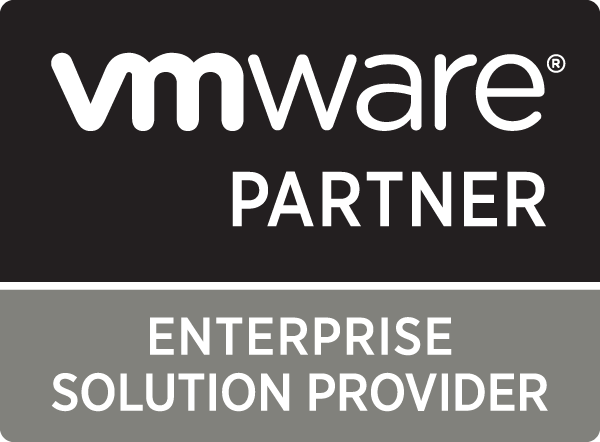
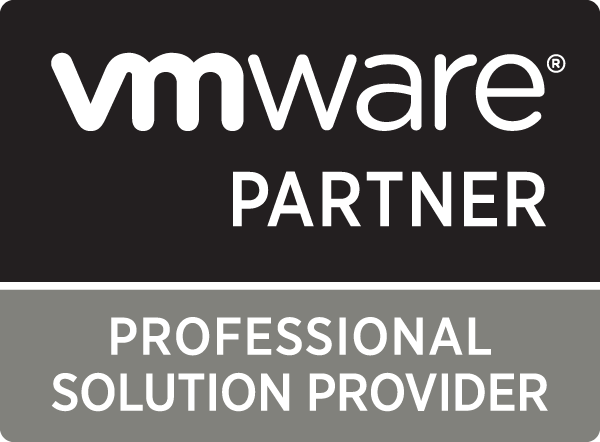
vmware mobile

Changed region(s): [[0.18, 0.7059, 0.81, 0.8235]]

diff --git a/vmware.html b/vmware.html
@@ -32,7 +32,6 @@ Smartphone Compatible web template, free webdesigns for Nokia, Samsung, LG, Sony
     <link href="css/bootstrap.css" rel="stylesheet" type="text/css" />
     <link href="css/style.css" rel="stylesheet" type="text/css" />
     <link href="css/vmware.css" rel="stylesheet" type="text/css" />
-    <link href="css/impresion.css" rel="stylesheet" type="text/css" />
     <link href="css/fontawesome-all.css" rel="stylesheet" />
     <link
       href="//fonts.googleapis.com/css?family=Open+Sans:300,300i,400,400i,600,600i,700,700i,800"
@@ -147,10 +146,10 @@ Smartphone Compatible web template, free webdesigns for Nokia, Samsung, LG, Sony
         <div class="inner-sec py-lg-5 py-3">
           <div class="row middle-grids pt-lg-5">
             <div class="col-lg-6 advantage-grid-info pt-md-3">
-              <div class="advantage_left">
+              <div class="advantage_left pb-3">
                 <!-- <h4 class="mb-2">SAI</h4> -->
-                <h3>Enterprise Solution Provider</h3>
-                <p class="mt-2">
+                <h3>La opción preferida de las empresas</h3>
+                <p class="mt-2 vmware-p">
                   VMware es la plataforma de virtualización líder del mercado
                   para construir infraestructuras de cloud. Permite a los
                   usuarios ejecutar aplicaciones críticas para el negocio con
@@ -160,11 +159,11 @@ Smartphone Compatible web template, free webdesigns for Nokia, Samsung, LG, Sony
               </div>
             </div>
             <div class="col-lg-6 advantage-grid-info1">
-              <div class="advantage_left1 text-center">
+              <div class="vmware-img text-center">
                 <img
                   src="./images/vmware-partner.png"
                   class="img-fluid"
-                  alt="vmware enterprise partner"
+                  alt="vmware professional partner"
                 />
               </div>
             </div>
@@ -188,7 +187,7 @@ Smartphone Compatible web template, free webdesigns for Nokia, Samsung, LG, Sony
               <!-- <p class="text-white">Nulla pellentesque mi non laoreet eleifend. Integer porttitor mollisar lorem,
               at molestie arcu pulvinar ut. Proin ac fermentum est. Cras mi ipsum, consectetur ac ipsum in,
               egestas vestibulum tellus.</p> -->
-              <p class="text-white">
+              <p class="text-white vmware-p">
                 vSphere permite a las organizaciones de TI eliminar los costosos
                 proyectos de expansión del centro de datos que interrumpen las
                 operaciones empresariales, gracias a la posibilidad de
@@ -200,7 +199,7 @@ Smartphone Compatible web template, free webdesigns for Nokia, Samsung, LG, Sony
                 para ambientes existentes físicos o virtuales.
               </p>
               <a
-                href="servicios.html"
+                href="#servicios-vmware"
                 class="btn btn-primary vmware-button mt-3"
                 >Servicios</a
               >
@@ -218,9 +217,9 @@ Smartphone Compatible web template, free webdesigns for Nokia, Samsung, LG, Sony
           <div class="row middle-grids pt-lg-5">
             <div class="col-lg-6 advantage-grid-info pt-md-5">
               <div class="advantage_left">
-                <h4 class="mb-2">High Availability</h4>
-                <h3>HA</h3>
-                <p class="mt-2">
+                <h4 class="mb-2">HA - High Availability</h4>
+                <h3>Alta Disponibilidad</h3>
+                <p class="mt-2 vmware-p">
                   HA es la solución automatizada más rentable para el reinicio
                   de todas las aplicaciones en cuestión de minutos en caso de un
                   fallo de hardware o del sistema operativo
@@ -251,7 +250,7 @@ Smartphone Compatible web template, free webdesigns for Nokia, Samsung, LG, Sony
               <div class="advantage_left">
                 <h4 class="mb-2">Disaster Recovery</h4>
                 <h3>VMware Site Recovery Manager</h3>
-                <p class="mt-2">
+                <p class="mt-2 vmware-p">
                   VMware Site Recovery Manager es una solución líder en el
                   sector, que proporciona disponibilidad de las aplicaciones y
                   movilidad entre sitios en entornos de cloud privada, se
@@ -264,7 +263,7 @@ Smartphone Compatible web template, free webdesigns for Nokia, Samsung, LG, Sony
           </div>
 
           <!-- Servicios de VMware -->
-          <div class="row middle-grids pt-lg-5">
+          <div class="row middle-grids pt-lg-5" id="servicios-vmware">
             <div class="col-lg-8 advantage-grid-info pt-md-5">
               <div class="advantage_left">
                 <!-- <h4 class="mb-2">Servicios</h4> -->
@@ -325,12 +324,13 @@ Smartphone Compatible web template, free webdesigns for Nokia, Samsung, LG, Sony
         <div class="inner-sec py-md-5 py-3">
           <div class="row mb-md-4 mb-md-3">
             <div class="col-lg-3 col-md-6 social-info text-left">
-              <h3 class="tittle1 foot mb-md-5 mb-4 text-white">Informacion</h3>
+              <h3 class="tittle1 foot mb-md-5 mb-4 text-white">Información</h3>
               <p>Dr Angel Martinez Villareal #433</p>
               <p class="my-2">Monterrey, NL, Mexico</p>
               <p class="phone my-2">phone: +1 81 8347 7640</p>
               <p class="phone">
-                E-Mail: <a href="mailto:info@example.com">info@example.com</a>
+                E-Mail:
+                <a href="mailto:ventas@gnsys.com.mx">ventas@gnsys.com.mx</a>
               </p>
             </div>
             <div class="col-lg-3 col-md-6 social-info text-left">
@@ -343,7 +343,7 @@ Smartphone Compatible web template, free webdesigns for Nokia, Samsung, LG, Sony
               </p> -->
             </div>
             <div class="col-lg-6 col-md-12 n-right tex-left">
-              <h3 class="tittle1 foot mb-md-5 mb-4 text-white">Contactanos</h3>
+              <h3 class="tittle1 foot mb-md-5 mb-4 text-white">Contáctanos</h3>
               <!--
                 <form action="#" method="post">
                     <div class="form-group d-flex">
@@ -353,7 +353,7 @@ Smartphone Compatible web template, free webdesigns for Nokia, Samsung, LG, Sony
                 </form>
               -->
               <form
-                action="https://formspree.io/alex.gtz17@gmail.com"
+                action="https://formspree.io/ventas@gnsys.com.mx"
                 method="POST"
               >
                 <div class="form-group d-flex">

diff --git a/impresion.html b/impresion.html
@@ -393,7 +393,8 @@ Smartphone Compatible web template, free webdesigns for Nokia, Samsung, LG, Sony
               <p class="my-2">Monterrey, NL, Mexico</p>
               <p class="phone my-2">phone: +1 81 8347 7640</p>
               <p class="phone">
-                E-Mail: <a href="mailto:info@example.com">info@example.com</a>
+                E-Mail:
+                <a href="mailto:ventas@gnsys.com.mx">ventas@gnsys.com.mx</a>
               </p>
             </div>
             <div class="col-lg-3 col-md-6 social-info text-left">
@@ -416,7 +417,7 @@ Smartphone Compatible web template, free webdesigns for Nokia, Samsung, LG, Sony
                   </form>
                 -->
               <form
-                action="https://formspree.io/alex.gtz17@gmail.com"
+                action="https://formspree.io/ventas@gnsys.com.mx"
                 method="POST"
               >
                 <div class="form-group d-flex">

diff --git a/css/vmware.css b/css/vmware.css
@@ -2,7 +2,21 @@
   background: url(../images/Vmware-banner2.jpg);
   background-size: cover;
   background-position: center;
-  min-height: 350px;
+  min-height: 295px;
+}
+
+.vmware-img img {
+  max-height: 300px;
+  border-radius: 10px;
+  /* width: 100%; */
+  /* box-shadow: 5px 10px #888888; */
+  /* box-shadow: 5px 5px 4px 5px #888888; */
+}
+
+.advantage_left1 img {
+  max-height: 300px;
+  border-radius: 10px;
+  width: 90%;
 }
 
 .choose {
@@ -25,4 +39,8 @@
   color: #8c9398;
   line-height: 2em;
   letter-spacing: 1px;
+}
+
+.vmware-p {
+  text-indent: 2rem;
 }

diff --git a/infraestructura.html b/infraestructura.html
@@ -492,7 +492,7 @@ Smartphone Compatible web template, free webdesigns for Nokia, Samsung, LG, Sony
                   </form>
                 -->
               <form
-                action="https://formspree.io/alex.gtz17@gmail.com"
+                action="https://formspree.io/ventas@gnsys.com.mx"
                 method="POST"
               >
                 <div class="form-group d-flex">
